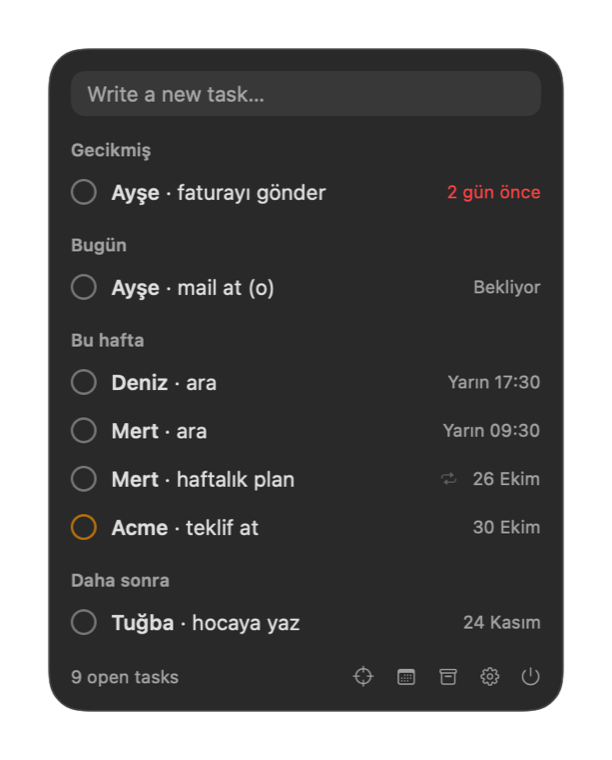
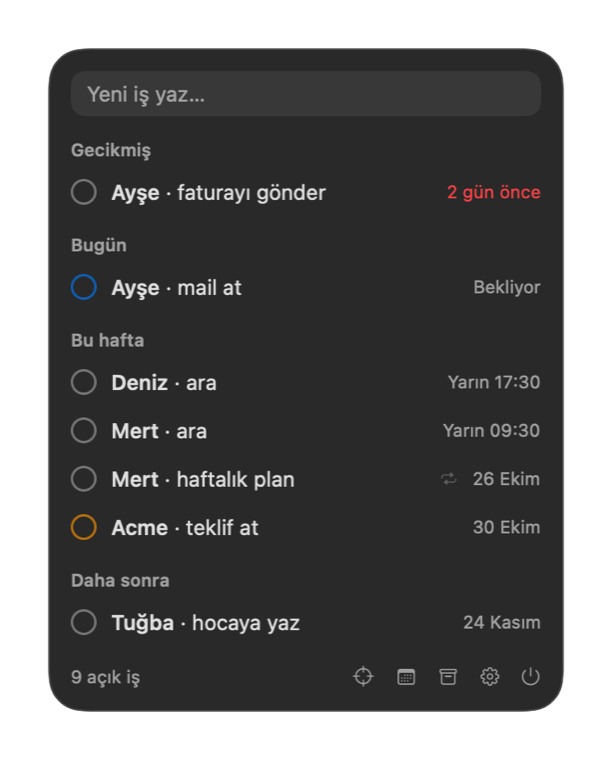
site: Mac görüntüleri dillere göre yenilendi

diff --git a/MenuBarTodo/DemoRender.swift b/MenuBarTodo/DemoRender.swift
@@ -13,7 +13,7 @@ enum DemoRender {
         let groups = sortedOpenItems(model.store.openItems(), now: now, calendar: model.calendar)
         let view = VStack(alignment: .leading, spacing: 6) {
             HStack {
-                Text("Write a new task…").foregroundStyle(.secondary).font(.system(size: 13))
+                Text(LocalizedStringKey("Yeni iş yaz…")).foregroundStyle(.secondary).font(.system(size: 13))
                 Spacer()
             }
             .padding(.horizontal, 10).padding(.vertical, 6)
@@ -27,7 +27,7 @@ enum DemoRender {
                 }
             }
             HStack(spacing: 12) {
-                Text("\(model.store.openItems().count) open tasks")
+                Text(LocalizedStringKey("\(model.store.openItems().count) açık iş"))
                 Spacer()
                 Image(systemName: "scope"); Image(systemName: "calendar"); Image(systemName: "archivebox")
                 Image(systemName: "gearshape"); Image(systemName: "power")
@@ -40,7 +40,7 @@ enum DemoRender {
         .overlay(RoundedRectangle(cornerRadius: 22).strokeBorder(Color.primary.opacity(0.12)))
         .padding(30)
         .environment(\.colorScheme, dark ? .dark : .light)
-        .environment(\.locale, Locale(identifier: "en"))
+        .environment(\.locale, Locale(identifier: Bundle.main.preferredLocalizations.first ?? "en"))
 
         let renderer = ImageRenderer(content: view)
         renderer.scale = 2

diff --git a/Shared/AppModel.swift b/Shared/AppModel.swift
@@ -185,6 +185,7 @@ final class AppModel {
             }
             FileHandle.standardError.write(Data((lines.joined(separator: "\n") + "\n").utf8))
         }
+        if ProcessInfo.processInfo.arguments.contains("-demoStore") { settingsStore.categories = TodoCategory.defaults() }
         if ProcessInfo.processInfo.arguments.contains("-seedDemo"), store.allItems().isEmpty {
             let turkish = Bundle.main.preferredLocalizations.first == "tr"
             let samples = turkish
